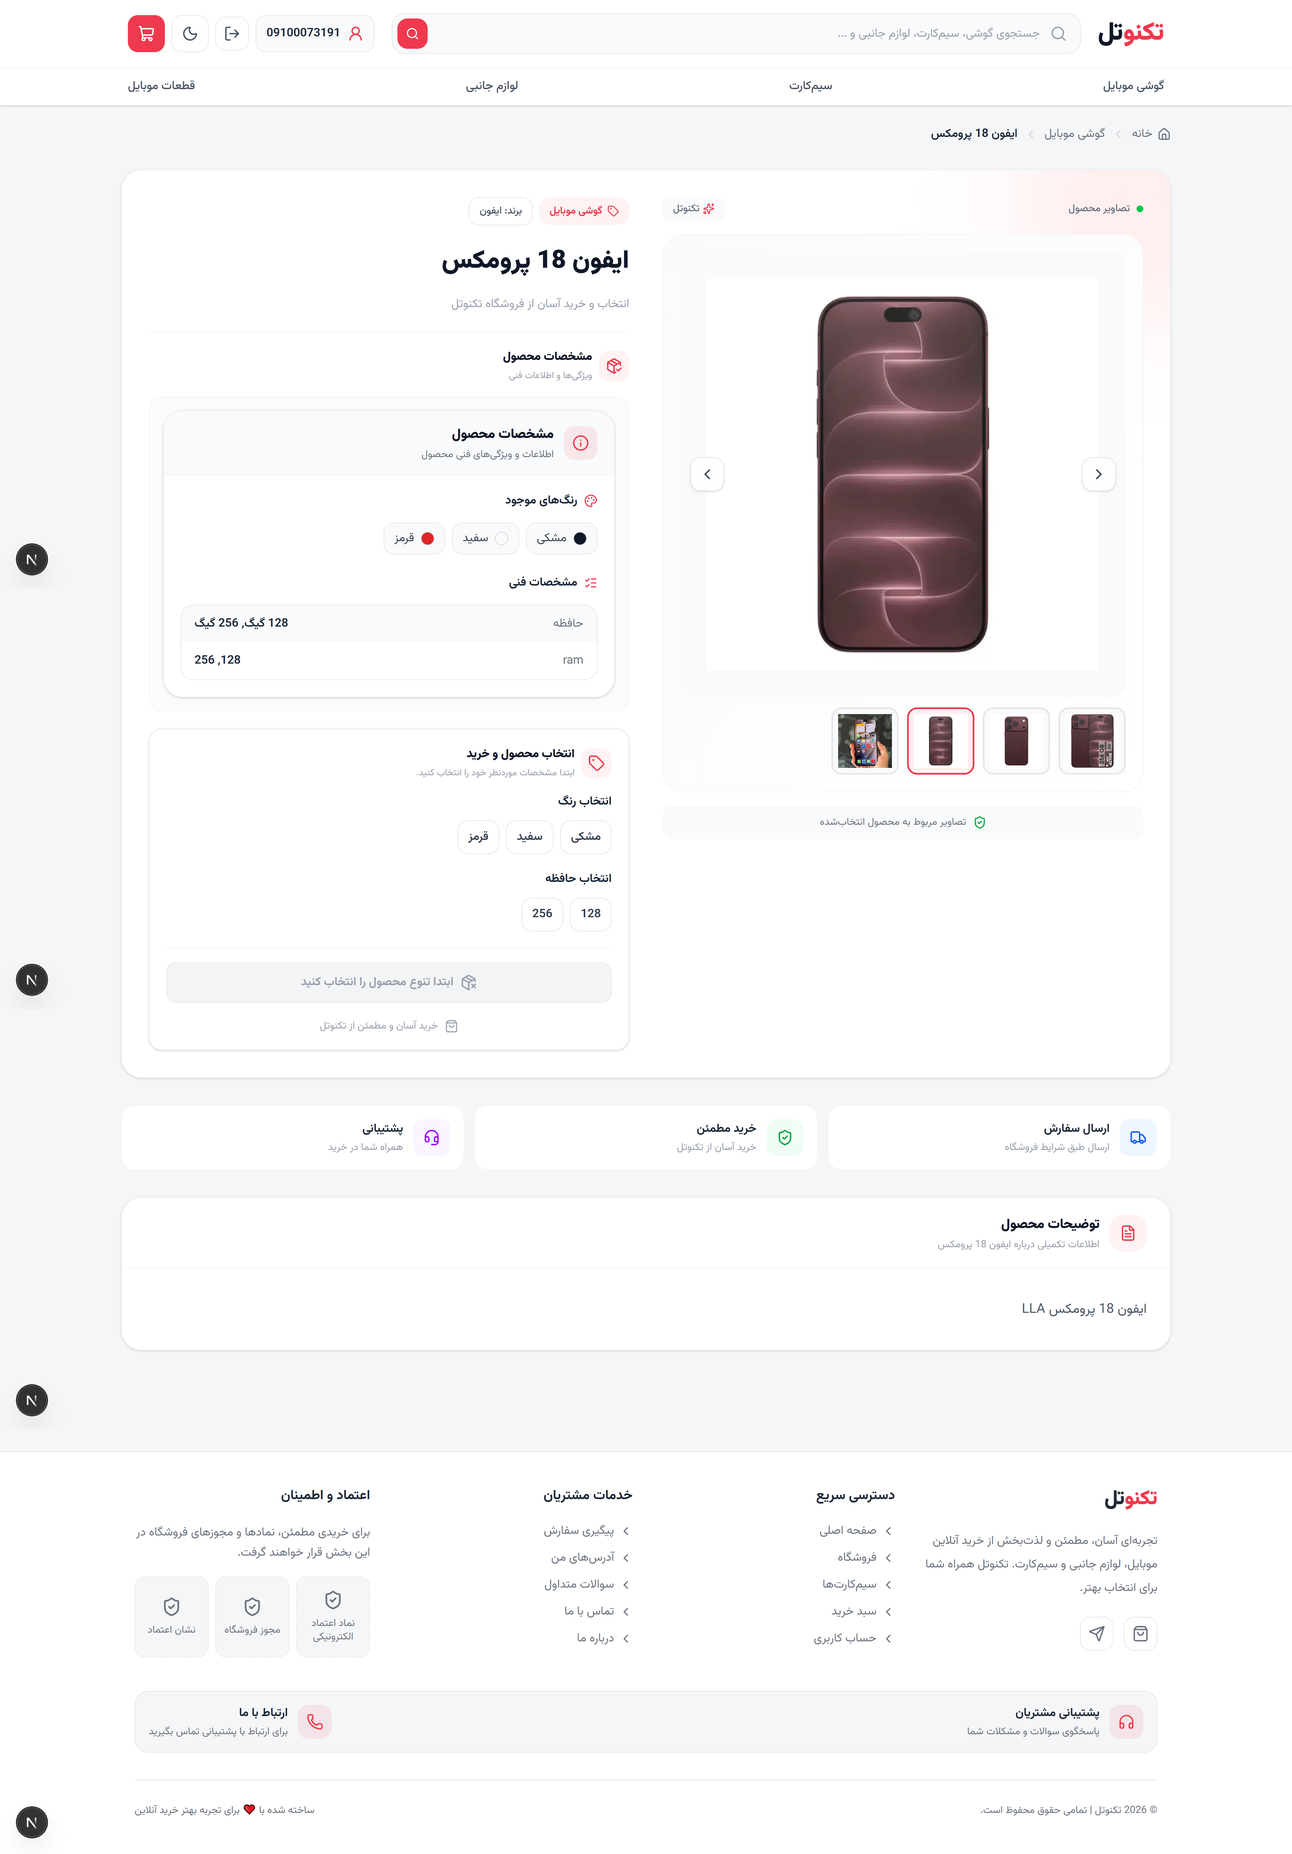
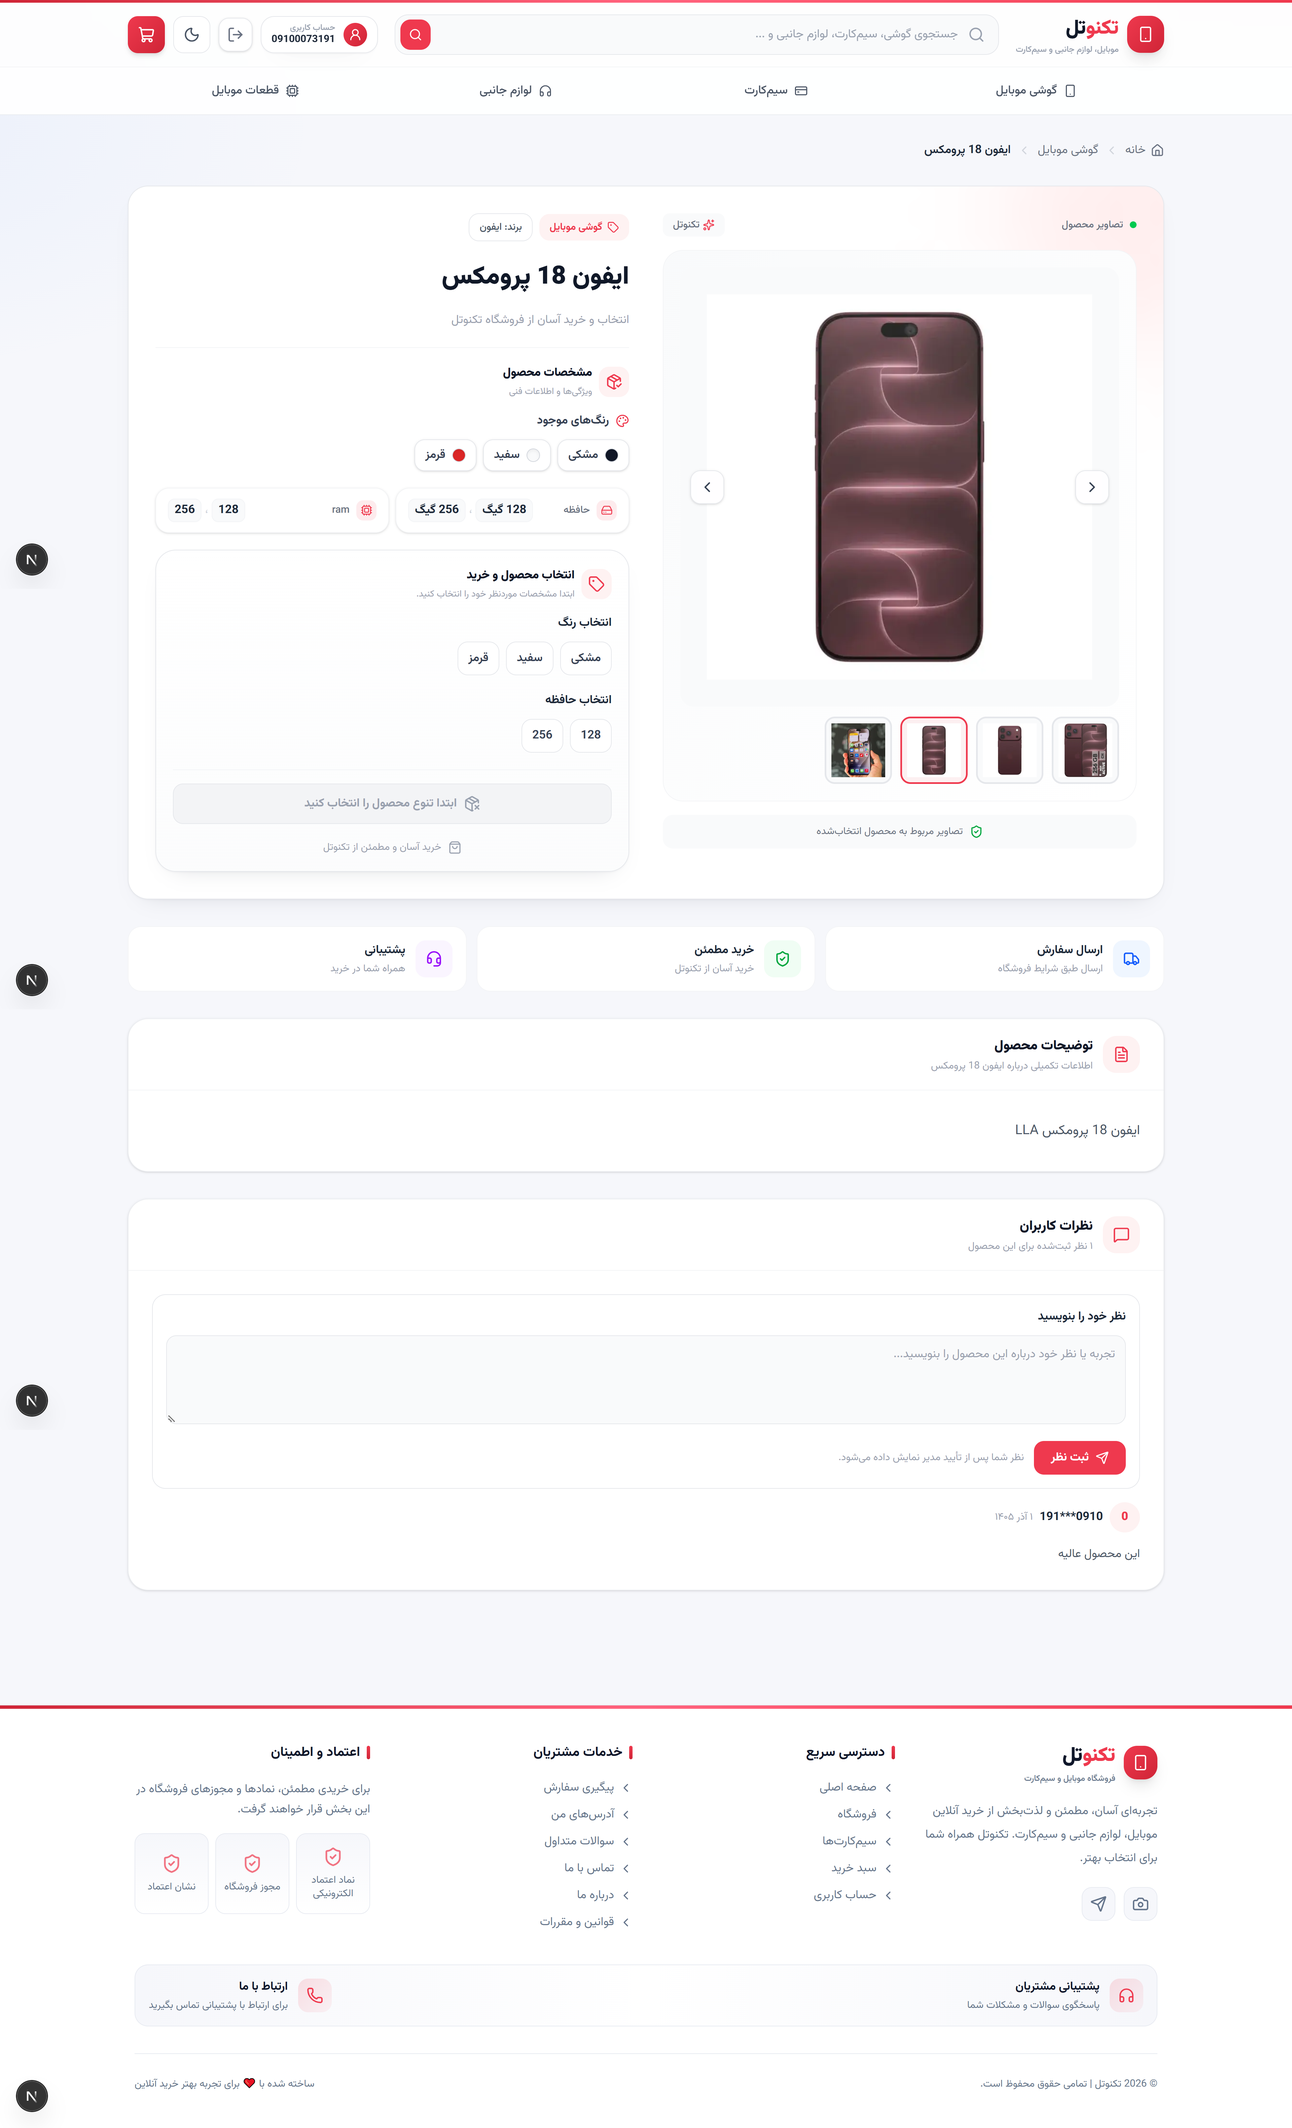
Update project README and screenshots

diff --git a/README.md b/README.md
@@ -1,8 +1,8 @@
-# TeknoTel | E-commerce Platform
+# TeknoTel | Full-Stack E-commerce Platform
 
-A full-stack e-commerce platform built with Next.js, featuring product browsing, authentication, shopping cart, order management, payment integration, and an admin dashboard.
+A modern full-stack e-commerce platform built with Next.js, featuring product browsing, authentication, product variants, shopping cart, order processing, payment integration, customer support, product reviews, and a comprehensive admin dashboard.
 
-تکنوتل یک فروشگاه اینترنتی فولاستک است که با Next.js توسعه داده شده و امکاناتی مانند مشاهده محصولات، احراز هویت، سبد خرید، ثبت و مدیریت سفارشها، سیستم پرداخت و پنل مدیریت را ارائه میدهد.
+تکنوتل یک فروشگاه اینترنتی فولاستک مدرن است که با Next.js توسعه داده شده و امکاناتی مانند مشاهده و جستوجوی محصولات، احراز هویت، تنوع محصولات، سبد خرید، ثبت و مدیریت سفارشها، سیستم پرداخت، پشتیبانی مشتریان، نظرات کاربران و پنل مدیریت را ارائه میدهد.
 
 ---
 
@@ -39,18 +39,20 @@ A full-stack e-commerce platform built with Next.js, featuring product browsing,
 - Product catalog and categories
 - Product details and specifications
 - Product search
-- Product variants
+- Product variants and customizable options
 - Shopping cart
 - Checkout and order creation
+- Product image management
 
 - طراحی واکنشگرا برای موبایل، تبلت و دسکتاپ
 - پشتیبانی از تم روشن و تاریک
 - نمایش محصولات و دستهبندیها
 - صفحه جزئیات و مشخصات محصولات
 - جستوجوی محصولات
-- محصولات دارای تنوع و ویژگیهای مختلف
+- محصولات دارای تنوع و گزینههای مختلف
 - سبد خرید
-- ثبت سفارش و فرایند تسویه حساب
+- ثبت سفارش و فرایند خرید
+- مدیریت تصاویر محصولات
 
 ### Authentication & User Account | احراز هویت و حساب کاربری
 
@@ -59,6 +61,7 @@ A full-stack e-commerce platform built with Next.js, featuring product browsing,
 - OTP verification
 - Session management
 - User dashboard
+- Profile management
 - Address management
 - Order history
 
@@ -67,8 +70,45 @@ A full-stack e-commerce platform built with Next.js, featuring product browsing,
 - تأیید شماره تلفن با کد یکبارمصرف
 - مدیریت نشستهای کاربری
 - پنل اختصاصی کاربران
+- مدیریت اطلاعات حساب
 - مدیریت آدرسها
 - مشاهده سفارشهای ثبتشده
+
+### Shopping Cart & Orders | سبد خرید و سفارشها
+
+- Shopping cart management
+- Product quantity management
+- Order creation
+- Address selection
+- Order status management
+- Order history
+- Unpaid order expiration handling
+
+- مدیریت سبد خرید
+- تغییر تعداد محصولات
+- ثبت سفارش
+- انتخاب آدرس
+- مدیریت وضعیت سفارشها
+- مشاهده سوابق سفارش
+- مدیریت سفارشهای پرداختنشده و منقضیشده
+
+### Product Management | مدیریت محصولات
+
+- Create, update, and delete products
+- Category management
+- Product specifications
+- Product variants
+- Variant-specific pricing and inventory
+- Product image management
+- Inventory management
+
+- ایجاد، ویرایش و حذف محصولات
+- مدیریت دستهبندیها
+- مدیریت مشخصات محصولات
+- مدیریت تنوع محصولات
+- مدیریت قیمت و موجودی هر تنوع
+- مدیریت تصاویر محصولات
+- مدیریت موجودی کالا
 
 ### Admin Panel | پنل مدیریت
 
@@ -78,6 +118,8 @@ A full-stack e-commerce platform built with Next.js, featuring product browsing,
 - Order management
 - Customer management
 - SIM card number management
+- Product comment moderation
+- Support ticket management
 - Payment and order status management
 
 - داشبورد مدیریتی همراه با آمار
@@ -86,40 +128,88 @@ A full-stack e-commerce platform built with Next.js, featuring product browsing,
 - مدیریت سفارشها
 - مدیریت مشتریان
 - مدیریت شمارههای سیمکارت
-- مدیریت وضعیت پرداخت و سفارش
+- مدیریت و تأیید نظرات کاربران
+- مدیریت تیکتهای پشتیبانی
+- مدیریت وضعیت پرداخت و سفارشها
 
 ### Payment System | سیستم پرداخت
 
 - Payment workflow
 - Zarinpal integration
+- Payment request creation
 - Payment verification
 - Payment status management
+- Payment failure handling
 - Mock payment mode for development and testing
 
 - فرایند پرداخت
 - اتصال به درگاه زرینپال
+- ایجاد درخواست پرداخت
 - بررسی و تأیید تراکنشها
 - مدیریت وضعیت پرداخت
+- مدیریت پرداختهای ناموفق
 - پرداخت شبیهسازیشده برای توسعه و تست
+
+### Customer Support | پشتیبانی مشتریان
+
+- Ticket creation
+- Support conversations
+- Ticket messages
+- Admin replies
+- Ticket status management
+
+- ایجاد تیکت پشتیبانی
+- گفتوگو با پشتیبانی
+- ارسال پیام در تیکت
+- پاسخدهی توسط مدیر
+- مدیریت وضعیت تیکتها
+
+### Product Reviews | نظرات کاربران
+
+- Product comments
+- Comment moderation
+- Comment approval system
+- Admin replies
+
+- ثبت نظر درباره محصولات
+- مدیریت نظرات
+- سیستم تأیید نظرات
+- پاسخ مدیر به نظرات کاربران
+
+### SIM Card Management | مدیریت سیمکارتها
+
+- SIM card number management
+- Operator management
+- Pricing management
+- Availability management
+
+- مدیریت شمارههای سیمکارت
+- مدیریت اپراتورها
+- تعیین قیمت
+- مدیریت وضعیت موجودی و فروش
 
 ---
 
 ## Tech Stack | تکنولوژیها
 
-| Technology      | تکنولوژی       | Purpose          | کاربرد                   |
-| --------------- | -------------- | ---------------- | ------------------------ |
-| Next.js 16      | نکستجیاس     | React framework  | فریمورک توسعه           |
-| React 19        | ریاکت         | UI development   | توسعه رابط کاربری        |
-| TypeScript      | تایپاسکریپت   | Type safety      | کاهش خطاهای تایپی        |
-| Tailwind CSS 4  | تیلویند        | Styling          | طراحی و استایلدهی       |
-| PostgreSQL      | پستگرس         | Database         | پایگاه داده              |
-| Prisma ORM      | پریزما         | Database ORM     | مدیریت ارتباط با دیتابیس |
-| NextAuth.js     | نکستآث        | Authentication   | احراز هویت               |
-| Zustand         | زوستاند        | State management | مدیریت وضعیت             |
-| React Hook Form | ریاکت هوک فرم | Form management  | مدیریت فرمها            |
-| Zod             | زاد            | Validation       | اعتبارسنجی دادهها       |
-| Docker          | داکر           | Containerization | اجرای سرویسها           |
-| Zarinpal        | زرینپال       | Payment gateway  | درگاه پرداخت             |
+| Technology      | Purpose                    | تکنولوژی        | کاربرد               |
+| --------------- | -------------------------- | --------------- | -------------------- |
+| Next.js 16      | Full-stack React framework | Next.js         | فریمورک فولاستک    |
+| React 19        | UI development             | React           | توسعه رابط کاربری    |
+| TypeScript      | Type safety                | TypeScript      | کاهش خطاهای تایپی    |
+| Tailwind CSS 4  | Styling                    | Tailwind CSS    | طراحی و استایلدهی   |
+| PostgreSQL      | Relational database        | PostgreSQL      | پایگاه داده رابطهای |
+| Prisma ORM      | Database ORM               | Prisma          | مدیریت دیتابیس       |
+| NextAuth.js     | Authentication             | NextAuth.js     | احراز هویت           |
+| Zustand         | State management           | Zustand         | مدیریت وضعیت         |
+| React Hook Form | Form management            | React Hook Form | مدیریت فرمها        |
+| Zod             | Validation                 | Zod             | اعتبارسنجی دادهها   |
+| Docker          | Containerization           | Docker          | مدیریت کانتینرها     |
+| Google OAuth    | Social authentication      | Google OAuth    | ورود با گوگل         |
+| Zarinpal        | Payment gateway            | زرینپال        | درگاه پرداخت         |
+| Swiper          | Sliders and carousels      | Swiper          | اسلایدرها            |
+| Lucide React    | Icons                      | Lucide React    | آیکونها             |
+| Sharp           | Image processing           | Sharp           | پردازش تصاویر        |
 
 ---
 
@@ -140,15 +230,15 @@ npm install
 
 ### 3. Configure environment variables | تنظیم متغیرهای محیطی
 
-Create a `.env` file in the project root and configure the required environment variables.
+Create a `.env` file in the project root and configure the required environment variables based on `.env.example`.
 
-یک فایل `.env` در ریشه پروژه ایجاد کرده و متغیرهای محیطی موردنیاز را تنظیم کنید.
+یک فایل `.env` در ریشه پروژه ایجاد کرده و متغیرهای محیطی موردنیاز را مطابق فایل `.env.example` تنظیم کنید.
 
-### 4. Start PostgreSQL | راهاندازی دیتابیس
+### 4. Configure the database | راهاندازی دیتابیس
 
-Make sure PostgreSQL is running and the database is available.
+Make sure PostgreSQL is running and the database connection is correctly configured.
 
-اطمینان حاصل کنید PostgreSQL در حال اجراست و دیتابیس موردنیاز پروژه در دسترس قرار دارد.
+اطمینان حاصل کنید PostgreSQL در حال اجراست و اتصال دیتابیس در متغیرهای محیطی بهدرستی تنظیم شده است.
 
 ### 5. Apply database migrations | اعمال Migrationها
 
@@ -178,20 +268,62 @@ http://localhost:3000
 
 ## Development Scripts | دستورات توسعه
 
-| Command         | دستور            | Description                  | توضیحات              |
-| --------------- | ---------------- | ---------------------------- | -------------------- |
-| `npm run dev`   | اجرای توسعه      | Start development server     | اجرای سرور توسعه     |
-| `npm run build` | ساخت پروژه       | Build production application | ساخت نسخه Production |
-| `npm start`     | اجرای Production | Start production server      | اجرای نسخه نهایی     |
-| `npm run lint`  | بررسی کد         | Run ESLint                   | بررسی کیفیت کد       |
+| Command         | Description                  | توضیحات              |
+| --------------- | ---------------------------- | -------------------- |
+| `npm run dev`   | Start development server     | اجرای سرور توسعه     |
+| `npm run build` | Build production application | ساخت نسخه Production |
+| `npm start`     | Start production server      | اجرای نسخه نهایی     |
+| `npm run lint`  | Run ESLint                   | بررسی کیفیت کد       |
+
+---
+
+## Project Structure | ساختار پروژه
+
+```text
+TeknoTel/
+├── prisma/
+│   ├── migrations/
+│   ├── schema.prisma
+│   └── seed.ts
+│
+├── public/
+│   └── screenshots/
+│
+├── src/
+│   ├── actions/
+│   ├── app/
+│   │   ├── (auth)/
+│   │   ├── (shop)/
+│   │   ├── admin/
+│   │   ├── dashboard/
+│   │   └── api/
+│   │
+│   ├── components/
+│   │   ├── admin/
+│   │   ├── auth/
+│   │   ├── dashboard/
+│   │   ├── layout/
+│   │   ├── providers/
+│   │   ├── shop/
+│   │   └── support/
+│   │
+│   ├── lib/
+│   ├── store/
+│   └── types/
+│
+├── scripts/
+├── package.json
+├── prisma.config.ts
+└── README.md
+```
 
 ---
 
 ## About the Project | درباره پروژه
 
-TeknoTel is a portfolio project developed to practice and demonstrate modern full-stack web development concepts, including responsive UI design, authentication, database integration, product and category management, order processing, and payment workflows.
+TeknoTel is a portfolio project developed to practice and demonstrate modern full-stack web development concepts. It includes responsive UI development, authentication, database integration, product and category management, product variants, shopping cart functionality, order processing, payment workflows, customer support, product reviews, and administrative tools.
 
-تکنوتل یک پروژه نمونهکار برای تمرین و نمایش مهارتهای توسعه وب فولاستک است که در آن مفاهیمی مانند طراحی واکنشگرا، احراز هویت، ارتباط با پایگاه داده، مدیریت محصولات و دستهبندیها، پردازش سفارشها و پیادهسازی فرایند پرداخت به کار گرفته شدهاند.
+تکنوتل یک پروژه نمونهکار برای تمرین و نمایش مهارتهای توسعه وب فولاستک است که در آن مفاهیمی مانند طراحی واکنشگرا، احراز هویت، ارتباط با پایگاه داده، مدیریت محصولات و دستهبندیها، تنوع محصولات، سبد خرید، پردازش سفارشها، پیادهسازی فرایند پرداخت، سیستم پشتیبانی مشتریان و ابزارهای مدیریتی به کار گرفته شدهاند.
 
 ---
 
